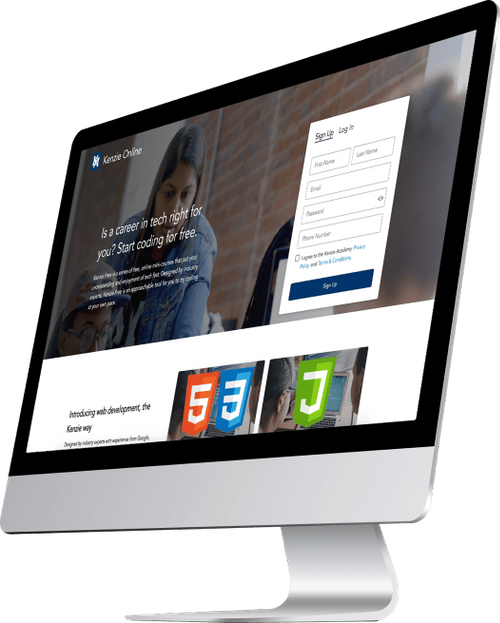
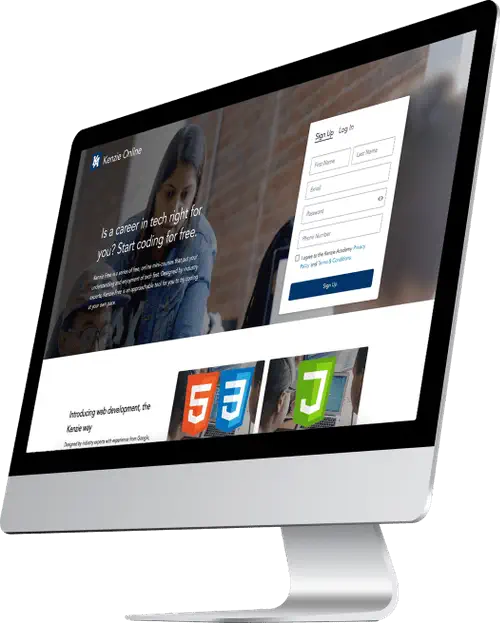
fix: compress image discover section

Changed region(s): [[0.36, 0.5795, 0.51, 0.7014], [0.6, 0.5795, 0.69, 0.6709], [0.18, 0.244, 0.21, 0.2745]]

diff --git a/css/home/case-studies.css b/css/home/case-studies.css
@@ -1,1 +1,1 @@
-.case-study-1-image,.case-study-2-image,.case-study-4-image,.case-study-6-image,.case-study-7-image,.case-study-8-image,.case-study-white-cover{left:auto;position:absolute}.case-studies-container{overflow-x:hidden;height:1200px;max-width:var(--maxWContainer)}.row{height:33.33%}.case-study-column{padding-right:0;padding-left:0;background-color:var(--colorPrimary)}.case-study-column img{height:auto}.case-study-column.case-1{background-color:var(--red)}.case-study-column.case-2{background-color:transparent}.case-study-gradient{position:absolute;z-index:1;width:100%;height:100%}.case-study-gradient.case-1{background-color:var(--caseOne)}.case-study-gradient.case-4{background-color:var(--light)}.case-study-gradient.case-3{background-color:var(--caseThree);background-image:none}.case-study-gradient.case-2{background-color:var(--caseTwo)}.case-study-gradient.case-5{background-color:var(--caseFive)}.case-study-gradient.case-6{z-index:2;background-color:var(--light)}.case-study-gradient.case-7{background-color:var(--caseSeven)}.case-study-gradient.case-8{background-color:var(--caseEight)}.case-study-gradient.case-9{background-color:var(--caseNine)}.case-study-1-image{top:17%;right:-11%;bottom:0}.case-study-2-image{top:9%;right:-6%;bottom:auto;max-width:70%}.case-study-6-image{top:18%;right:0;max-width:85%;margin-right:-87px}.case-study-4-image{top:auto;right:6%;bottom:-6%;max-width:80%}.case-study-3-image,.case-study-5-image{bottom:auto;left:auto;position:absolute}.case-study-5-image{top:36%;right:-40%}.case-study-3-image{top:-4%;right:0;max-width:70%}.case-study-7-image{top:auto;right:5%;bottom:-5%;max-width:60%}.case-study-8-image{top:0;right:-25%;bottom:auto}.case-study-9-image{position:absolute;top:-84px}.case-study-white-cover{top:0;right:-400px;bottom:0;width:400px;background-color:#fff}.case-name-and-platforms{position:absolute;left:24px;bottom:40px;z-index:100;text-decoration:none}.hame-case-name{margin-top:0;margin-bottom:8px;color:#fff;font-size:32px;line-height:39px;letter-spacing:.37px}.hame-case-name.drum{color:#fff;text-shadow:var(--textShadowBland)}.hame-case-name.black-text,.home-case-platform.black-text{color:#000;text-shadow:none}.home-case-platform{color:#fff;font-size:16px;line-height:22px;font-family:var(--fontMedium);letter-spacing:var(--letter-spacing-sm)}.home-case-platform.drum{color:#fff}.case-study-link-block{transition:opacity .2s}.case-study-link-block.coming-soon-overlay{background-color:rgba(0,0,0,.4)}.overlay{position:relative;z-index:5;width:100%;height:100%;background-color:rgba(0, 0, 0, 0.1);}
+.case-study-1-image,.case-study-2-image,.case-study-4-image,.case-study-6-image,.case-study-7-image,.case-study-8-image,.case-study-white-cover{left:auto;position:absolute}.case-studies-container{overflow:hidden;height:1200px;max-width:var(--maxWContainer)}.row{height:33.33%}.case-study-column{padding-right:0;padding-left:0;background-color:var(--colorPrimary)}.case-study-column img{height:auto}.case-study-column.case-1{background-color:var(--red)}.case-study-column.case-2{background-color:transparent}.case-study-gradient{position:absolute;z-index:1;width:100%;height:100%}.case-study-gradient.case-1{background-color:var(--caseOne)}.case-study-gradient.case-4{background-color:var(--light)}.case-study-gradient.case-3{background-color:var(--caseThree);background-image:none}.case-study-gradient.case-2{background-color:var(--caseTwo)}.case-study-gradient.case-5{background-color:var(--caseFive)}.case-study-gradient.case-6{z-index:2;background-color:var(--light)}.case-study-gradient.case-7{background-color:var(--caseSeven)}.case-study-gradient.case-8{background-color:var(--caseEight)}.case-study-gradient.case-9{background-color:var(--caseNine)}.case-study-1-image{top:17%;right:-11%;bottom:0}.case-study-2-image{top:9%;right:-6%;bottom:auto;max-width:70%}.case-study-6-image{top:18%;right:0;max-width:85%;margin-right:-87px}.case-study-4-image{top:auto;right:6%;bottom:-6%;max-width:80%}.case-study-3-image,.case-study-5-image{bottom:auto;left:auto;position:absolute}.case-study-5-image{top:36%;right:-40%}.case-study-3-image{top:-4%;right:0;max-width:70%}.case-study-7-image{top:auto;right:5%;bottom:-5%;max-width:60%}.case-study-8-image{top:0;right:-25%;bottom:auto}.case-study-9-image{position:absolute;top:-84px}.case-study-white-cover{top:0;right:-400px;bottom:0;width:400px;background-color:#fff}.case-name-and-platforms{position:absolute;left:24px;bottom:40px;z-index:100;text-decoration:none}.hame-case-name{margin-top:0;margin-bottom:8px;color:#fff;font-size:32px;line-height:39px;letter-spacing:.37px}.hame-case-name.drum{color:#fff;text-shadow:var(--textShadowBland)}.hame-case-name.black-text,.home-case-platform.black-text{color:#000;text-shadow:none}.home-case-platform{color:#fff;font-size:16px;line-height:22px;font-family:var(--fontMedium);letter-spacing:var(--letter-spacing-sm)}.home-case-platform.drum{color:#fff}.case-study-link-block{transition:opacity .2s}.case-study-link-block.coming-soon-overlay{background-color:rgba(0,0,0,.4)}.overlay{position:relative;z-index:5;width:100%;height:100%;background-color:rgba(0, 0, 0, 0.1);}
